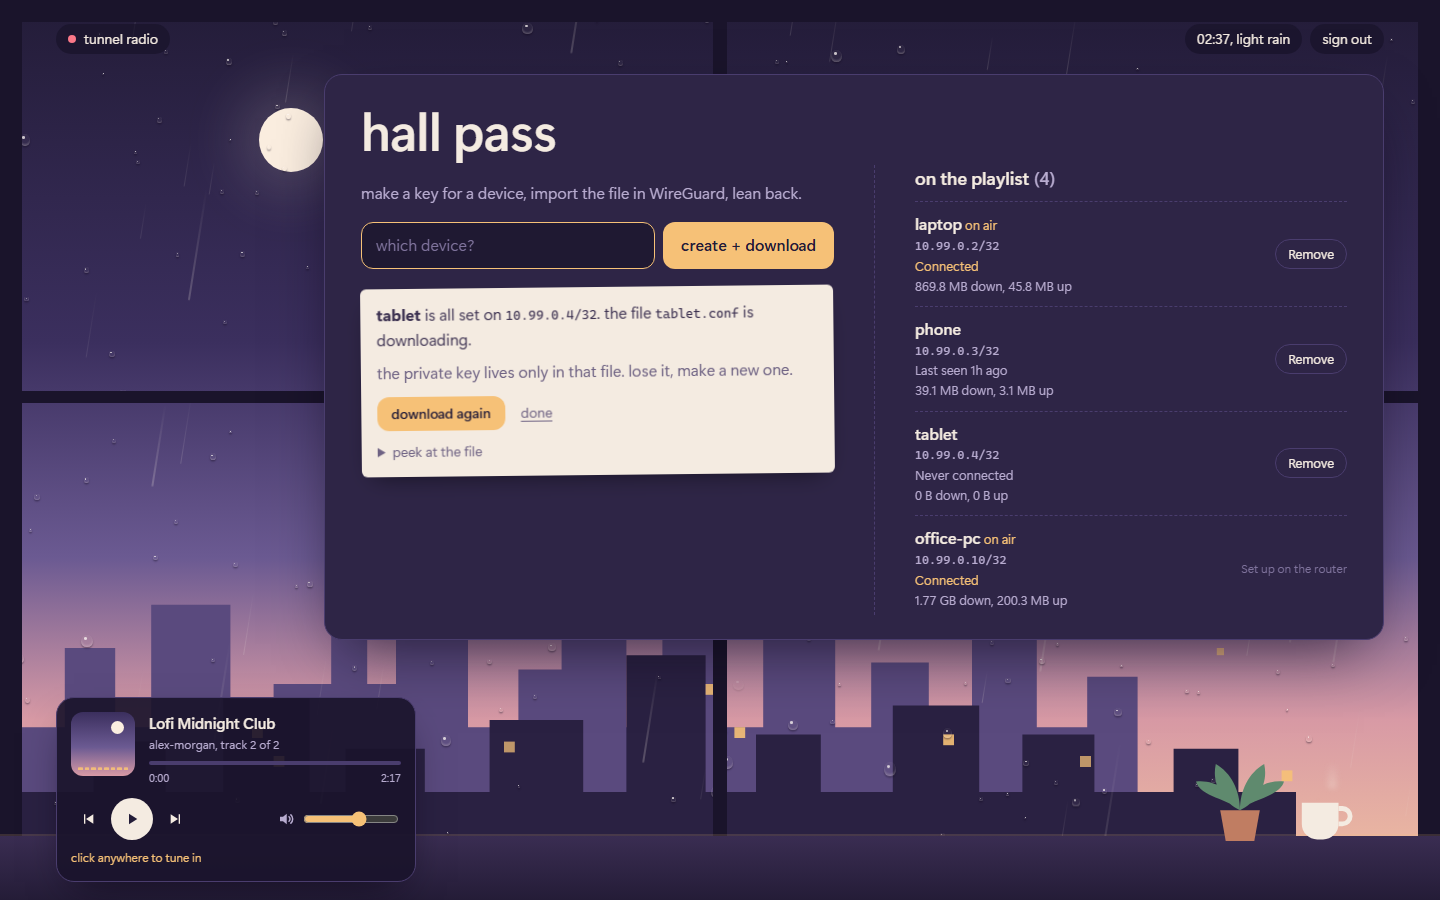
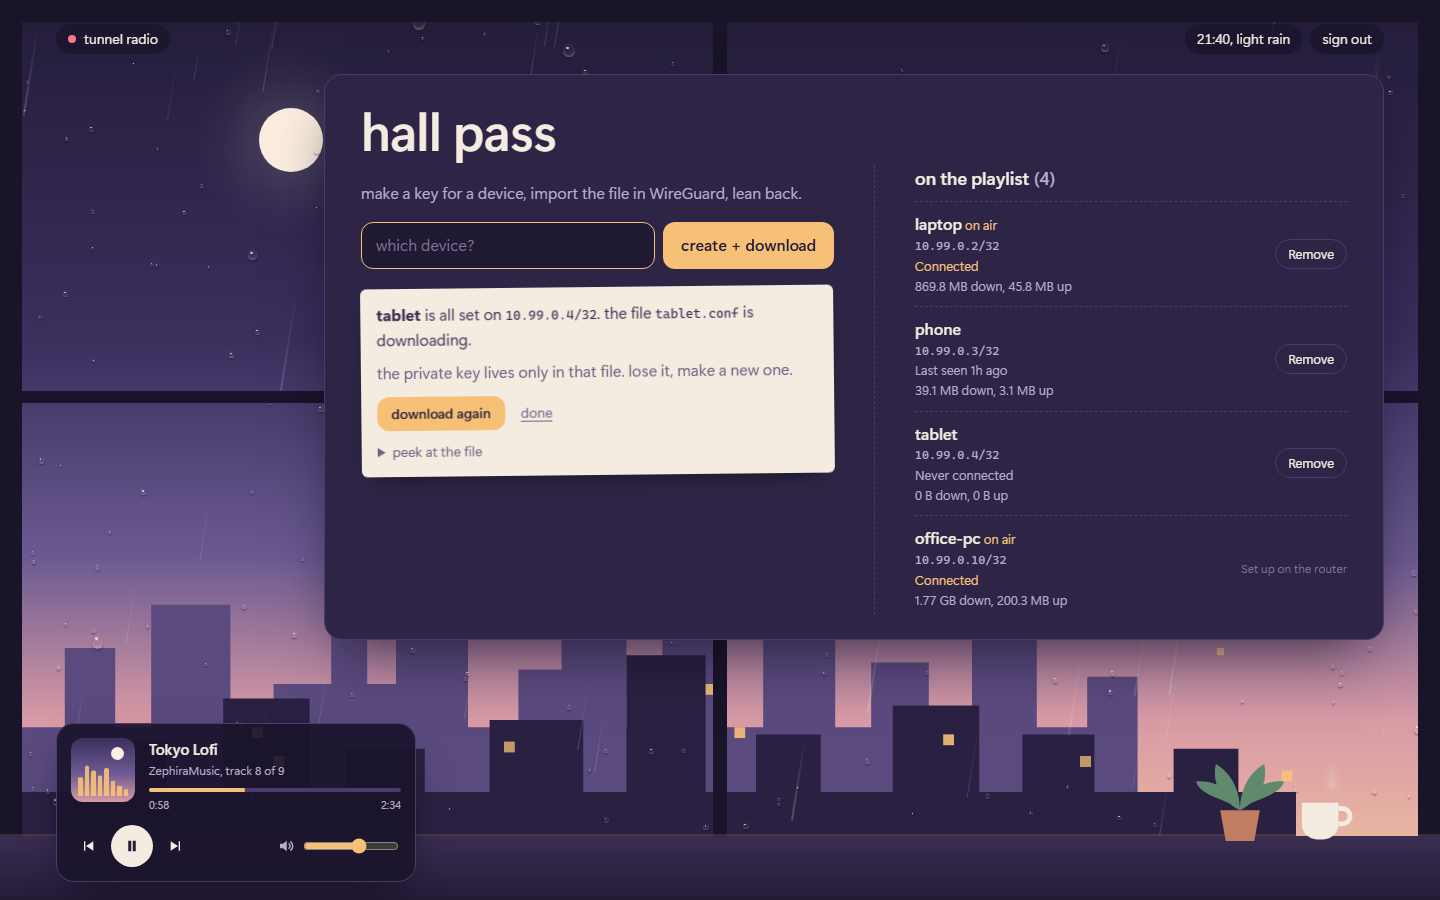
Update screenshots and fix the phone layout for long config lines
Screenshots: the player is playing, the clock shows evening, the
playlist has all 9 tracks, and two new views show the opened .conf file
and the first-start setup with the password hash. All demo data.

Fix: below 900px the column was "1fr", so an opened config file with
long key lines pushed the card wider than the screen. minmax(0, 1fr)
lets the <pre> scroll instead. CSS cache-bust v=13.

Changed region(s): [[0.0312, 0.7778, 0.3125, 0.9644]]

diff --git a/stil.css b/stil.css
@@ -104,7 +104,7 @@ code { font-family: var(--mono); font-size: .88em; color: var(--lampe); }
 .playlist h2 { margin-top: 0; }
 .playlist .liste { max-height: 46vh; overflow-y: auto; scrollbar-width: thin; scrollbar-color: var(--tisch-rand) transparent; }
 @media (max-width: 900px) {
-  .spalten { grid-template-columns: 1fr; }
+  .spalten { grid-template-columns: minmax(0, 1fr); }   /* minmax: lange Zeilen im pre scrollen statt die Karte zu sprengen */
   .playlist { border-left: 0; padding-left: 0; }
   .playlist h2 { margin-top: 28px; }
 }

diff --git a/index.html b/index.html
@@ -6,7 +6,7 @@
 <meta name="robots" content="noindex">
 <meta name="theme-color" content="#231c38">
 <title>VPN</title>
-<link rel="stylesheet" href="/vpn/stil.css?v=12">
+<link rel="stylesheet" href="/vpn/stil.css?v=13">
 <script src="/vpn/app.js" defer></script>
 <script src="/vpn/stimmung.js?v=12" defer></script>
 </head>

diff --git a/README.md b/README.md
@@ -4,11 +4,15 @@ A small web page that creates WireGuard connections on a MikroTik router with on
 
 ![Main view: a new connection was just created, the peer list is on the right](docs/main.png)
 
+| The finished `.conf` file | First start: setting the password |
+|---|---|
+| ![The result card opened to show the WireGuard config file](docs/config.png) | ![Setup view: a password is turned into the hash for config.php](docs/setup.png) |
+
 | Sign-in | On a phone |
 |---|---|
-| ![Sign-in view](docs/login.png) | ![Phone layout: sign-in, peer list and a new connection](docs/mobile.png) |
+| ![Sign-in view](docs/login.png) | ![Phone layout: sign-in, peer list and the config file](docs/mobile.png) |
 
-*The screenshots use demo data: the devices, addresses and keys are made up.*
+*The screenshots use demo data: the devices, addresses, keys and the hash are made up.*
 
 - **The keys are generated in the browser.** WebCrypto X25519 makes the key pair. The private key never leaves the device; the server only receives the public key and a preshared key.
 - **One click, one file.** Enter a device name and press the button. The page then:
